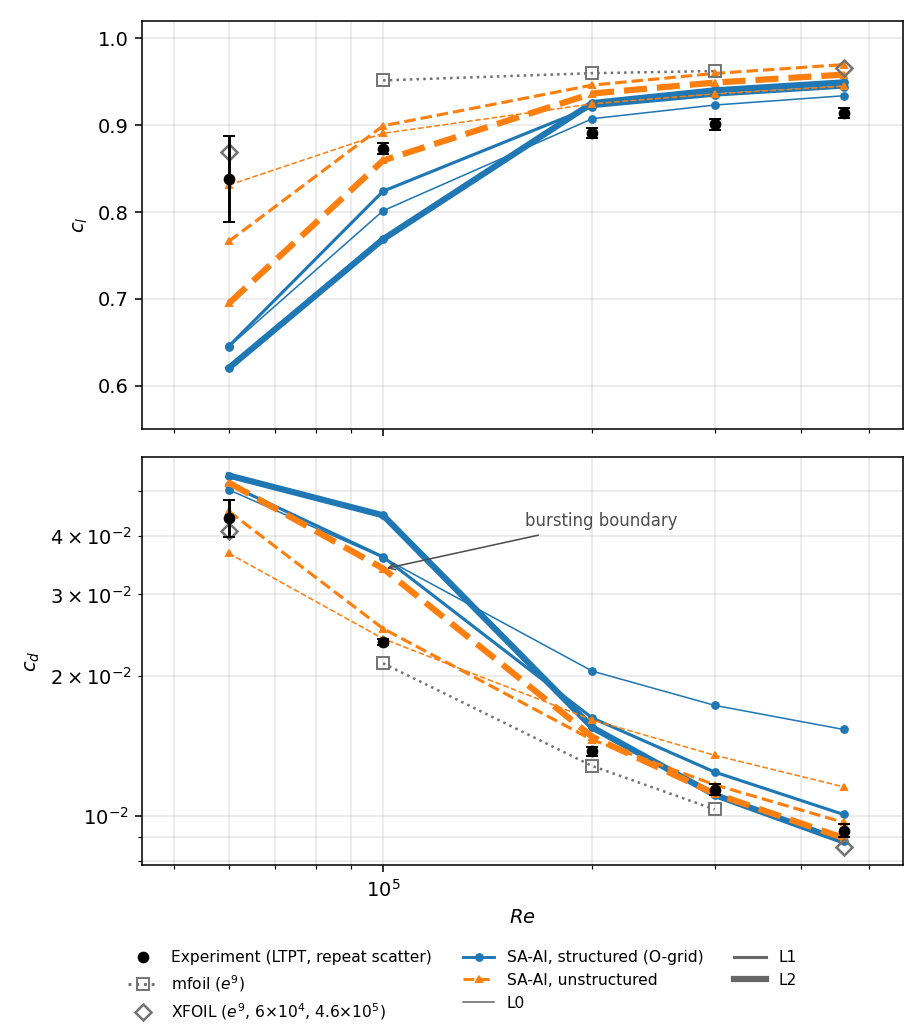
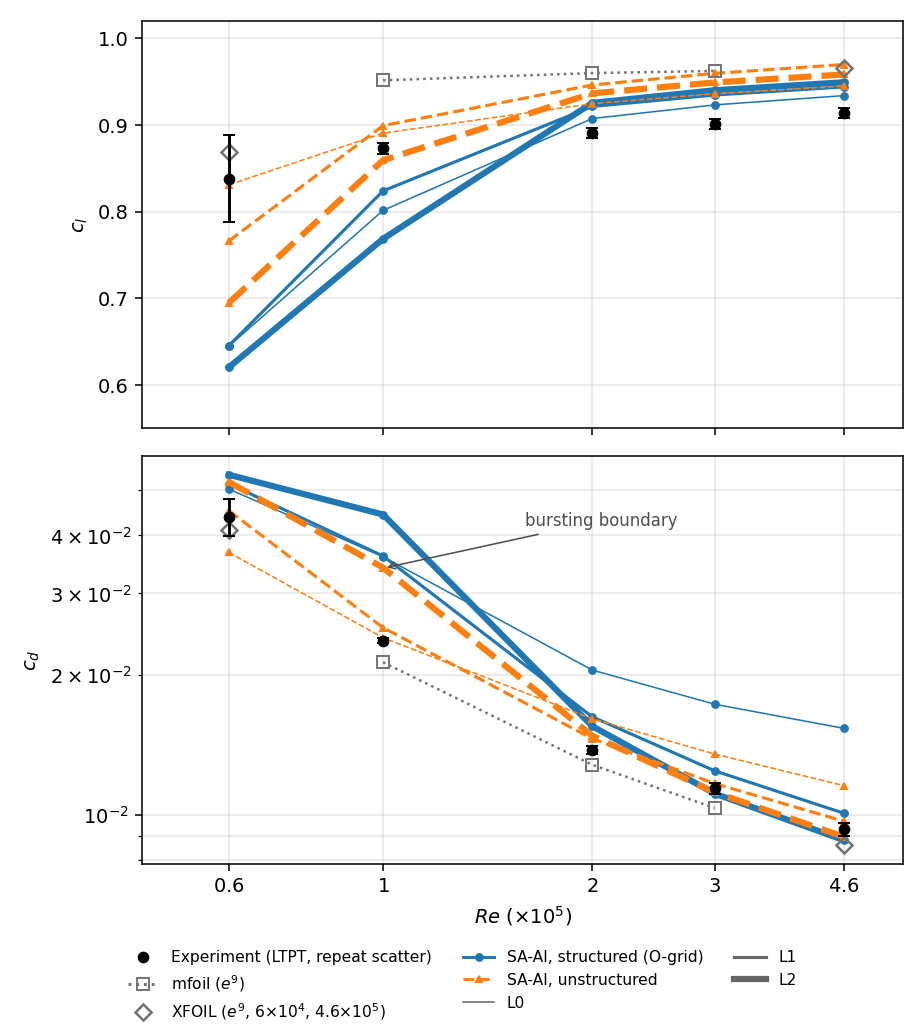
New section: Reynolds-number study of the Eppler 387 (bistability + handover mechanism)
Promotes sec:eppresweep to a standalone section before Daedalus, per plan.
New content: fig:eppresweepforces (cl/cd vs Re, all 24 solutions with the
refinement fan closing at 2-4.6e5 and opening at the 1e5 bursting
boundary; LTPT repeat scatter as error bars); tab:eppfork (initialization
forks: at 1e5 the model holds a distinct higher-lift branch -- cav fork
lands on the measured cl -- while at 6e4 the warm start is forgotten: the
model's bistable band sits one Reynolds step above TM-4062 Fig. 11a's);
tab:epphandover + mechanism subsection confirming the user's hypothesis
quantitatively: the chi e-fold count for handover is fixed (ln c_v1 ~ 2 to
half-saturation, ~3.4 to chi=30) while the length per e-fold grows as Re
falls, so at 1e5 half-saturation costs 0.08-0.10c and full production
0.2-0.6c against the e9 reference's 0.05c transition-to-reattachment --
the deliberately unmodeled transition zone starves the bubble of eddy
viscosity and selects the burst branch. Sec II.E's caveat sentence now
points here; Conclusion carries the finding and names the spot-growth/
intermittency sigma_t closure as future work. Repro:
analyze_handover_length.py (both families), regen_epp_resweep_forces.py
promoted from preview (Re ticks at 0.6/1/2/3/4.6e5). pdflatex: 0 errors,
0 undefined refs; all cross-refs label-based (no hard-coded numerals).

diff --git a/paper/sa-ai.tex b/paper/sa-ai.tex
@@ -1059,7 +1059,10 @@ transitional region is usually short on the scale of the geometry, the
 integrated quantities are insensitive to how the interpolation crosses
 it, and $\sigma_t$ is asked only to cross smoothly and monotonically;
 in flows where the transitional zone itself occupies a macroscopically
-significant extent, this economy would need revisiting.
+significant extent, this economy would need revisiting
+(Sec.~\ref{sec:epphandover} meets exactly such a flow: on the Eppler
+387 at $Re\!\leq\!10^5$ the handover zone grows to a large fraction of
+the chord and sets the model's bubble-bursting boundary).
 
 
 What remains is the turbulent side: the reduced diffusion
@@ -1375,7 +1378,7 @@ rather than the model, and is fixed where it is first used, on the flat
 plate of Sec.~\ref{sec:flatplate}. The
 same set is used without per-geometry adjustment for the Blasius transport
 verification (Fig.~\ref{fig:nuhat}) and every coupled-RANS computation of
-Secs.~\ref{sec:flatplate}--\ref{sec:eppval}.
+Secs.~\ref{sec:flatplate}--\ref{sec:eppresweep}.
 
 \section{Zero pressure gradient: the Blasius flat plate}\label{sec:flatplate}
 
@@ -2092,14 +2095,17 @@ incidence and has no front to move. This low-$\alpha$ over-length has the same
 origin as the separation-edge softening seen in the calibration
 (\S\ref{sec:calib_onset}, Fig.~\ref{fig:calibrate}): the linear $\hat S g$
 under-amplifies the detached laminar shear layer, so transition---and with it
-reattachment---is delayed and the bubble runs long. Matching the measured bubble
-length is left to future work.
+reattachment---is delayed and the bubble runs long. Where that over-length
+leads as the Reynolds number falls---to a bursting boundary, and to a
+bistable band the experiment also shows---is the subject of the next
+section.
 
 
-\subsection{Reynolds-number dependence at $\alpha\!=\!5^\circ$}\label{sec:eppresweep}
+\section{Reynolds-number study of the Eppler 387 at $\alpha\!=\!5^\circ$}\label{sec:eppresweep}
 
 To assess whether the same constants follow the bubble across the
-Reynolds-number range of the McGhee experiment, we hold the incidence at
+Reynolds-number range of the McGhee experiment, we hold everything of
+Sec.~\ref{sec:eppval}'s study fixed---the incidence at
 $\alpha\!=\!5^\circ$ and the freestream seed at
 $\chi_\infty\!=\!8.76\!\times\!10^{-4}$ and sweep the four other tabulated
 Reynolds numbers,
@@ -2185,9 +2191,30 @@ three implementations agree to better than $1\%$ everywhere except
 $Re\!=\!6\!\times\!10^4$, where mfoil visibly departs from the other
 two; XFOIL---whose forces also sit closest to the measurement---is
 presented as the reference there, in the table (mfoil in the footnote)
-and in Fig.~\ref{fig:eppresweep_low}. The one
+and in Fig.~\ref{fig:eppresweep_low}. \begin{figure}[tp]
+  \centering
+  \includegraphics[width=0.72\textwidth]{eppler_resweep_forces.pdf}
+  \caption{Section lift (top) and drag (bottom, log) against Reynolds
+  number for the $\alpha\!=\!5^\circ$ sweep: all $24$ SA-AI solutions
+  (line conventions as in the polars---structured O-grid solid blue,
+  unstructured cavity dashed orange, L0--L2 by line thickness), the $e^9$
+  panel reference (mfoil squares at $1$--$3\!\times\!10^5$; XFOIL diamonds
+  at the two ends, as in Table~\ref{tab:eppresweep}), and the LTPT
+  measurement (black circles, with the repeat scatter of the
+  Table~\ref{tab:eppresweep} caption as error bars: $\pm0.006$ in $c_l$
+  and $\pm0.0003$ in $c_d$ at $Re\!\geq\!10^5$, an order of magnitude
+  larger at the bistable $6\!\times\!10^4$). The refinement fan closes
+  onto the measurement at $2$--$4.6\!\times\!10^5$ and \emph{opens} at
+  $10^5$---the model's bursting boundary
+  (Sec.~\ref{sec:epphandover})---where refinement drives both families
+  away from the measured short-bubble state.}
+  \label{fig:eppresweepforces}
+\end{figure}
+
+The one
 systematic failure is at $Re\!=\!10^5$, where the computation sits past
-the model's bursting boundary: on every grid the upper-surface recovery
+the model's bursting boundary (the opening fan of
+Fig.~\ref{fig:eppresweepforces}): on every grid the upper-surface recovery
 is incomplete---the signed $C_f$ regains zero only within $0.04\,c$ of
 the trailing edge, against the measured oil-flow reattachment near
 $0.67\,c$---and the drag runs from $+7\%$ above the measurement
@@ -2195,7 +2222,10 @@ $0.67\,c$---and the drag runs from $+7\%$ above the measurement
 families toward the burst state rather than the measured short bubble.
 The overshoot is the extreme of the over-predicted bubble length
 (\S\ref{sec:calib_rate}): at this Reynolds number the model's extended
-laminar separation fails to close at all. The measured pressures confirm
+laminar separation fails to close at all. Sections~\ref{sec:eppbistab}
+and~\ref{sec:epphandover} take this failure apart: the flow here has two
+branches, in the computation as in the experiment, and what selects the
+burst branch is the length of the model's transition zone. The measured pressures confirm
 the computed bubble structure where the bubble does close: the
 suction-side plateau of the separated shear layer appears in the
 open-circle data at $3\!\times\!10^5$ exactly where the computed $C_p$
@@ -2285,6 +2315,135 @@ transition, reattachment, and the forces that follow.
   $3\!\times\!10^5$ only.}
   \label{fig:eppresweep_high}
 \end{figure}
+
+\subsection{Two branches: the bistable band}\label{sec:eppbistab}
+
+The experiment itself says the $10^5$-and-below regime is not
+single-valued. At $R\!=\!6\!\times\!10^4$ the LTPT observed \emph{two}
+flow states at the same angle of attack over
+$\alpha\!\approx\!3^\circ$--$7^\circ$: laminar separation with and
+without turbulent reattachment (McGhee et al.'s Fig.~11(a); runs at
+$p_t\!=\!5$~psi, $M\!=\!0.05$, $Tu\!\approx\!0.16\%$), the reattaching
+branch carrying the higher lift and lower drag. The selection was
+environmental: at the slightly noisier tunnel condition ($p_t\!=\!3$~psi,
+$M\!=\!0.09$, $Tu\!\approx\!0.20\%$) the flow always failed to reattach,
+and only at $\alpha\!=\!7.5^\circ$ did both conditions reattach
+consistently. Repeat polars at the same nominal condition scatter by an
+order of magnitude more than at any higher Reynolds number
+(Table~\ref{tab:eppresweep}).
+
+Whether the \emph{model} has two branches is a question about
+initial conditions, and the sweep provides the natural probe: fork each
+converged $Re\!=\!2\!\times\!10^5$ solution---attached flow with a short,
+closed bubble---to a lower Reynolds number by changing only the
+reference viscosity, and let the solver relax. If the model is
+bistable, the warm start should hold a reattaching state that the
+cold (freestream) start misses. Table~\ref{tab:eppfork} shows the
+outcome on the two finest grids. At $10^5$ it does: both families
+retain a higher-lift, lower-drag state than their cold starts---the
+unstructured fork's lift lands on the measured value---though the
+drag stays well above the measurement and the structured fork has not
+fully settled after $20\,000$ further iterations (a slow
+$\Delta C\!\approx\!6\!\times\!10^{-3}$ cycle). At $6\!\times\!10^4$ the
+memory of the attached state is lost within the run and both forks
+return to the burst branch: the model is bistable near $10^5$ and
+monostable at $6\!\times\!10^4$, where the experiment is bistable. The
+band exists in the model, one Reynolds step above where the experiment
+puts it.
+
+\begin{table}[tp]
+  \centering
+  \small
+  \caption{Initialization forks at $\alpha\!=\!5^\circ$ on the two finest
+  (L2) grids: each case restarted from its family's converged
+  $Re\!=\!2\!\times\!10^5$ solution with only the reference viscosity
+  changed, versus the freestream-initialized (cold) solution of the
+  sweep and the LTPT measurement. At $10^5$ the fork holds a distinct,
+  higher-lift branch ($^\ast$the structured fork retains a slow
+  $\Delta C\!\approx\!6\!\times\!10^{-3}$ limit cycle after $20\,000$
+  iterations; values are medians); at $6\!\times\!10^4$ both forks
+  return to the burst branch.
+  (Repro: \texttt{repro/cfd/run\_bistability\_forks.py}.)}
+  \label{tab:eppfork}
+  \begin{tabular}{ll cc cc cc}
+    \toprule
+    & & \multicolumn{2}{c}{cold start} & \multicolumn{2}{c}{forked from $2\!\times\!10^5$} & \multicolumn{2}{c}{Exp (LTPT)}\\
+    \cmidrule(lr){3-4}\cmidrule(lr){5-6}\cmidrule(lr){7-8}
+    $Re$ & family & $c_l$ & $c_d$ & $c_l$ & $c_d$ & $c_l$ & $c_d$ \\
+    \midrule
+    $10^5$ & unstructured & 0.859 & 0.0341 & 0.877 & 0.0318 & 0.873 & 0.0237 \\
+           & structured   & 0.769 & 0.0444 & $0.819^\ast$ & $0.0400^\ast$ & & \\
+    $6\!\times\!10^4$ & unstructured & 0.695 & 0.0522 & 0.701 & 0.0516 & 0.838 & 0.0439 \\
+           & structured   & 0.621 & 0.0541 & 0.625 & 0.0536 & & \\
+    \bottomrule
+  \end{tabular}
+\end{table}
+
+\subsection{The unmodeled transition zone sets the bursting boundary}\label{sec:epphandover}
+
+Why does the model's band sit high? The blend of
+Sec.~\ref{sec:blend} deliberately represents no transition physics: the
+handover from amplification to SA production is an interpolation in
+$\chi$, adopted on the grounds that the actively transitional region is
+usually short on the scale of the geometry---with the stated caveat
+that flows where it is not would need the economy revisited. The
+Reynolds sweep is that flow, and the failure is quantitative.
+The number of $e$-folds $\chi$ must climb through the handover is fixed
+by the model: $\ln c_{v1}\!\approx\!2.0$ from the $\chi\!=\!1$ crossing
+to the eddy-viscosity half-saturation, and another
+$\approx\!1.4$ to $\chi\!\approx\!30$, where the production weight
+$\sigma_P$ and $f_{v1}$ are effectively complete. The length those
+$e$-folds occupy is not fixed: each costs roughly
+$u_\mathrm{conv}/(a\,\omega)$, and the shear layer's
+$\omega\!\sim\!U_e/\delta$ weakens as the layers thicken, so the
+handover stretches like $\delta/c\!\propto\!Re^{-1/2}$ and faster once
+the bubble grows. Table~\ref{tab:epphandover} measures it on the
+computed solutions. At $2$--$4.6\!\times\!10^5$ the half-saturation
+length is $0.05$--$0.08\,c$ and the bubble closes $0.06$--$0.17\,c$
+past the crossing. At $10^5$ the half-saturation alone costs
+$0.08$--$0.10\,c$, full production is not reached until
+$0.2$--$0.6\,c$ downstream, and the bubble never closes; at
+$6\!\times\!10^4$ full production is never reached on the airfoil. The
+$e^9$ reference---whose closure switches to fully turbulent \emph{at}
+the transition point---reattaches within $0.05\,c$ of its transition
+station at $10^5$, on the measured reattachment; spot-driven breakdown
+in bubble DNS is similarly abrupt~\cite{alam_sandham_2000,
+spalart_strelets_2000}. The conclusion is specific: it is not the onset
+placement but the \emph{length of the modeled transition zone}---the
+deliberately unphysical $\sigma_t$ interpolation---that starves the
+bubble of eddy viscosity, selects the burst branch, and pushes the
+bursting boundary and the bistable band one Reynolds step above the
+measurement. A transition-zone closure with physical content (a
+spot-growth or intermittency model replacing the fixed-$\chi$-width
+interpolation) is the identified remedy, left to future work.
+
+\begin{table}[tp]
+  \centering
+  \small
+  \caption{The handover length against the room the bubble has, on the
+  structured L2 grids (upper surface, $\alpha\!=\!5^\circ$): distance
+  from the $\chi\!=\!1$ crossing to eddy-viscosity half-saturation
+  ($\chi\!=\!c_{v1}$), to effectively full SA production
+  ($\chi\!=\!30$), and to turbulent reattachment $x_R$, with the $e^9$
+  reference's transition-to-reattachment distance where its bubble
+  closes. The unstructured family agrees on the half-saturation
+  lengths to $0.05\,c$; at $10^5$ its full-production station differs
+  strongly ($0.20$ vs $0.55\,c$)---itself a signature of the bistable
+  regime. (Repro: \texttt{repro/cfd/analyze\_handover\_length.py}.)}
+  \label{tab:epphandover}
+  \begin{tabular}{l cccc}
+    \toprule
+    $Re$ & $\Delta x(\chi\!:\!1\!\to\!c_{v1})$ & $\Delta x(\chi\!:\!1\!\to\!30)$
+    & $\Delta x(\chi\!=\!1\to x_R)$ & $e^9$: $x_R - x_\mathrm{tr}$ \\
+    \midrule
+    $6\!\times\!10^4$   & 0.20 & never & no closure & no closure \\
+    $1\!\times\!10^5$   & 0.10 & 0.55 & no closure & 0.05 \\
+    $2\!\times\!10^5$   & 0.05 & 0.10 & 0.17 & 0.02 \\
+    $3\!\times\!10^5$   & 0.08 & 0.13 & 0.11 & 0.01 \\
+    $4.6\!\times\!10^5$ & 0.05 & 0.23 & 0.06 & --- \\
+    \bottomrule
+  \end{tabular}
+\end{table}
 
 \section{Three-dimensional deployment: the Daedalus wing}\label{sec:daedalus}
 
@@ -2543,13 +2702,25 @@ or below $0.03\,c$ away from the marginal cases (the near-LE onset at
 $\alpha\!=\!9^\circ$ and the near-stall Eppler $\alpha\!=\!7^\circ$, which
 reach $0.03$--$0.04\,c$), and the two independently-generated mesh families
 agree to within $0.02\,c$ of chord on every transition front and to
-$0.005$--$0.021\,c$ on the Eppler reattachment at L2.
+$0.005$--$0.021\,c$ on the Eppler reattachment at L2. The Reynolds sweep
+also locates the model's low-$Re$ boundary: the Eppler bubble fails to
+close at $10^5$ on every grid, and initialization forks show the model
+carries the experiment's bistable band (reattaching and burst branches
+at the same condition) one Reynolds step above the measured
+$6\!\times\!10^4$---traced quantitatively to the length of the
+deliberately unmodeled transition zone, which at these Reynolds numbers
+grows to a macroscopic fraction of the chord and starves the bubble of
+eddy viscosity (Sec.~\ref{sec:epphandover}).
 
 Several extensions follow. The clearest limitation is the linear rate's
 under-amplification of strongly favorable and strongly separated profiles---the
 favorable envelope of Fig.~\ref{fig:calibrate} and the over-long Eppler bubble
 both trace to it---so a shaped rate that restores the near-neutral floor without
-a pressure-gradient parameter is the natural refinement. A calibration against
+a pressure-gradient parameter is the natural refinement. The second is
+the transition zone itself: a spot-growth or intermittency closure for
+$\sigma_t$, replacing the fixed-$\chi$-width interpolation, would move
+the bursting boundary toward the measured one
+(Sec.~\ref{sec:epphandover}). A calibration against
 linear-stability and $e^N$ databases beyond the anchors used here---and a
 direct comparison with the algebraic SA-BCM model on community-standard
 benchmarks---would establish accuracy beyond the present demonstration.

diff --git a/paper/repro/cfd/analyze_handover_length.py b/paper/repro/cfd/analyze_handover_length.py
@@ -1,0 +1,83 @@
+"""Handover-length ladder for the Eppler 387 Reynolds sweep (Sec. eppresweep).
+
+For each Reynolds number of the alpha=5 sweep, measures on the upper
+surface (L2 grids, both mesh families):
+
+  x(chi=1)     first station where the near-wall max chi crosses unity
+               (transition onset; the sigma_t blend begins),
+  x(chi=c_v1)  half-saturation of the eddy viscosity,
+  x(chi=30)    effectively full SA production (sigma_P ~ 0.9993 at
+               tau=4; f_v1 ~ 0.99),
+  x_R          turbulent reattachment (last upward zero crossing of the
+               signed C_f),
+
+and prints the distances the paper's handover table quotes:
+Delta x(1->c_v1), Delta x(1->30), Delta x(1->x_R). The point (confirming
+the mechanism behind the raised bursting boundary): the number of chi
+e-folds needed for handover is FIXED, so the physical handover length
+grows as the Reynolds number falls, and by Re=1e5 it is comparable to the
+room the bubble has to close -- the eddy viscosity arrives too late and
+the burst branch is selected, one Reynolds step above the experimentally
+bistable 6e4 (TM-4062 Fig. 11a).
+
+Run from paper/: SAAI_CFD_ROOT=... python3 repro/cfd/analyze_handover_length.py
+"""
+import os
+import sys
+sys.path.insert(0, os.path.dirname(os.path.abspath(__file__)))
+import numpy as np
+import regen_eppler_v2 as R
+
+B = os.environ.get("SAAI_CFD_ROOT", "/home/qiqi/flexcompute/sa-ai/flow360_fr")
+C_V1 = 7.1
+CHI_FULL = 30.0
+
+
+def cases(fam):
+    yield 60, f'{B}/sweep_{fam}L2_Re60k_a5'
+    yield 100, f'{B}/sweep_{fam}L2_Re100k_a5'
+    yield 200, f'{B}/{fam}L2prop_eppler387_Re200k_a5'
+    yield 300, f'{B}/sweep_{fam}L2_Re300k_a5'
+    yield 460, f'{B}/sweep_{fam}L2_Re460k_a5'
+
+
+def chi_station(d, NU, thr):
+    xc, mu, _ = R.max_chi_vs_x(d)
+    j = np.where(mu/NU > thr)[0]
+    return float(xc[j[0]]) if len(j) else None
+
+
+def reattach(d):
+    (xu, cfu, _), _ = R.airfoil_walk_contour(d)
+    o = np.argsort(xu)
+    x, cf = xu[o], cfu[o]
+    neg = np.where(cf < 0)[0]
+    if not len(neg):
+        return None, None
+    i = neg[-1]
+    xr = x[i] + (0 - cf[i])*(x[i+1] - x[i])/(cf[i+1] - cf[i]) \
+        if i + 1 < len(x) else x[i]
+    return float(x[neg[0]]), float(xr)
+
+
+def main():
+    for fam in ('str', 'cav'):
+        print(f"== {fam} L2 ==")
+        print(f"{'Re':>5} {'x_sep':>6} {'x_chi1':>7} {'x_cv1':>6} "
+              f"{'x_chi30':>7} {'x_R':>6} {'d1->cv1':>8} {'d1->30':>7} "
+              f"{'d1->R':>7}")
+        for Rk, d in cases(fam):
+            NU = 0.1/(Rk*1000.0)
+            s1 = chi_station(d, NU, 1.0)
+            s2 = chi_station(d, NU, C_V1)
+            s3 = chi_station(d, NU, CHI_FULL)
+            xs, xr = reattach(d)
+            f = lambda v: f"{v:.3f}" if v is not None else "  -- "
+            dd = lambda a, b: f"{b-a:.3f}" if (a is not None and b is not None) else "  -- "
+            print(f"{Rk:>4}k {f(xs):>6} {f(s1):>7} {f(s2):>6} {f(s3):>7} "
+                  f"{f(xr):>6} {dd(s1, s2):>8} {dd(s1, s3):>7} {dd(s1, xr):>7}",
+                  flush=True)
+
+
+if __name__ == '__main__':
+    main()

diff --git a/paper/repro/cfd/regen_epp_resweep_forces.py b/paper/repro/cfd/regen_epp_resweep_forces.py
@@ -1,7 +1,7 @@
-"""PREVIEW: Eppler-387 alpha=5 Reynolds-sweep section forces as a figure.
+"""fig:eppresweepforces -> paper/figs/eppler_resweep_forces.pdf.
 
-Proposed replacement/companion for tab:eppresweep now that the sweep
-carries the full L0/L1/L2 suite (24 solutions): c_l (top) and c_d (bottom,
+Eppler-387 alpha=5 Reynolds-sweep section forces across the full
+L0/L1/L2 suite (24 solutions): c_l (top) and c_d (bottom,
 log) versus Re (log), with the paper's established conventions --
 structured O-grid solid blue / unstructured cavity dashed orange, L0/L1/L2
 by geometric line thickness (POLAR_LW), the e^9 panel reference dotted
@@ -15,7 +15,7 @@ refinement at 2-4.6e5 and OPENS at 1e5, where the computation sits past
 the model's bursting boundary and refinement drives both families away
 from the measurement.
 
--> figs_explore preview only (not wired into the paper).
+Run from paper/: python3 repro/cfd/regen_epp_resweep_forces.py
 """
 import os, json, pickle
 import numpy as np
@@ -24,8 +24,9 @@ import matplotlib.pyplot as plt
 from matplotlib.lines import Line2D
 
 B = os.environ.get("SAAI_CFD_ROOT", "/home/qiqi/flexcompute/sa-ai/flow360_fr")
-OUT = os.path.join(os.path.dirname(os.path.abspath(__file__)),
-                   '..', 'analytic', 'figs_explore')
+_HERE = os.path.dirname(os.path.abspath(__file__))
+OUT = os.path.abspath(os.path.join(_HERE, '..', '..', 'figs'))
+PREV = os.path.abspath(os.path.join(_HERE, '..', 'analytic', 'figs_explore'))
 POLAR_LW = {'L0': 0.8, 'L1': 1.6, 'L2': 3.2}
 FAM = {'str': dict(color='C0', ls='-'), 'cav': dict(color='C1', ls='--')}
 RES = [60, 100, 200, 300, 460]
@@ -85,6 +86,13 @@ axl.set_ylabel('$c_l$'); axd.set_ylabel('$c_d$'); axd.set_xlabel('$Re$')
 axl.grid(alpha=0.3, which='both'); axd.grid(alpha=0.3, which='both')
 axl.set_xlim(4.5e4, 5.6e5); axd.set_xlim(4.5e4, 5.6e5)
 axl.set_ylim(0.55, 1.02)
+import matplotlib.ticker as mticker
+for ax in (axl, axd):
+    ax.xaxis.set_major_locator(mticker.FixedLocator([6e4, 1e5, 2e5, 3e5, 4.6e5]))
+    ax.xaxis.set_minor_locator(mticker.NullLocator())
+    ax.xaxis.set_major_formatter(mticker.FixedFormatter(
+        ['$0.6$', '$1$', '$2$', '$3$', '$4.6$']))
+axd.set_xlabel(r'$Re\ (\times 10^5)$')
 axd.annotate('bursting boundary', xy=(1.0e5, 0.034), xytext=(1.6e5, 0.042),
              fontsize=8.5, color='0.3',
              arrowprops=dict(arrowstyle='->', color='0.3', lw=0.8))
@@ -104,7 +112,7 @@ handles = [Line2D([], [], color='k', marker='o', ls='none', ms=5,
 fig.legend(handles=handles, fontsize=8, ncol=3, frameon=False,
            loc='lower center', bbox_to_anchor=(0.5, 0.0))
 plt.tight_layout(rect=(0, 0.08, 1, 1))
-os.makedirs(OUT, exist_ok=True)
-for ext in ('png', 'pdf'):
-    plt.savefig(f'{OUT}/epp_resweep_forces.{ext}', dpi=140 if ext == 'png' else None)
-print('wrote', f'{OUT}/epp_resweep_forces.png')
+os.makedirs(PREV, exist_ok=True)
+plt.savefig(f'{OUT}/eppler_resweep_forces.pdf')
+plt.savefig(f'{PREV}/epp_resweep_forces.png', dpi=140)
+print('wrote', f'{OUT}/eppler_resweep_forces.pdf')